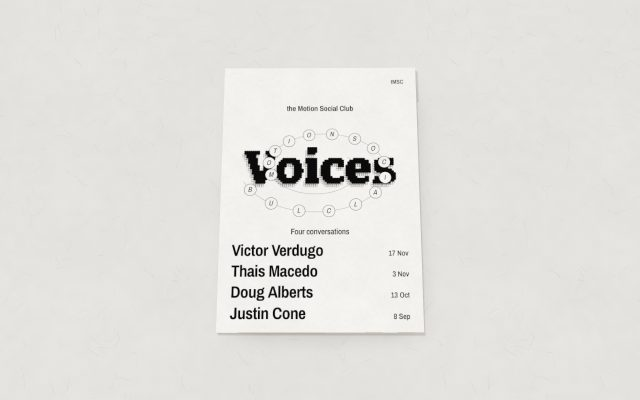
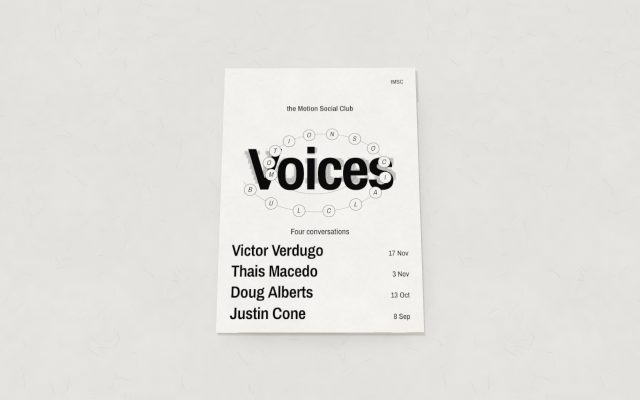
tMSC Voices: solid Archivo Narrow cover title over light dots
The cover title is now solid Archivo Narrow bold; the dotted slab-serif Voices sits behind it
in light grey as texture, with no shadow.

Claude-Session: https://claude.ai/code/session_01TARX4ZTpTNPwo2gLfwacvw

Changed region(s): [[0.375, 0.36, 0.625, 0.48]]

diff --git a/playground/app/prototypes/tmsc-voices-magazine/layout-cover-orbit.ts b/playground/app/prototypes/tmsc-voices-magazine/layout-cover-orbit.ts
@@ -1,13 +1,14 @@
-import { font, right, type Ctx } from "./canvas-type";
+import { fit, font, right, type Ctx } from "./canvas-type";
 import { displayDate, INTERVIEWS } from "./content";
 import { PAGE_PX } from "./data";
 import { dotType } from "./dot-type";
 import type { CoverSetup } from "./setup";
 
 /**
- * The typographic cover: "the Motion Social Club" as a pre-title, "Voices" built from dots in
- * a heavy slab serif, an orbit line spiralling around it with the club's letters in rings,
- * then the four guests and their dates. Same copy as the plain cover.
+ * The typographic cover: "the Motion Social Club" as a pre-title, "Voices" in solid Archivo
+ * Narrow bold over a dotted slab-serif "Voices" behind it, an orbit line spiralling around
+ * with the club's letters in rings, then the four guests and their dates. Same copy as the
+ * plain cover.
  */
 
 export const SLAB_FAMILY = "tMSC Voices Slab";
@@ -58,7 +59,14 @@ export function drawOrbitCover(ctx: Ctx, cover: CoverSetup) {
   ctx.fillText("the Motion Social Club", cx, cy - ry - 90);
   ctx.textAlign = "left";
   const size = 360;
-  dotType(ctx, "Voices", `800 ${size}px "${SLAB_FAMILY}"`, cx, cy + size * 0.33, { step: 14, ink });
+  // the dots sit behind, light, as texture; the title itself is solid Archivo Narrow
+  dotType(ctx, "Voices", `800 ${size}px "${SLAB_FAMILY}"`, cx, cy + size * 0.33, { step: 14, ink, alpha: 0.16 });
+  const title = fit(ctx, "Voices", { weight: 700, maxWidth: 1060, maxHeight: 600, leading: 1, max: 560, min: 200, tracking: -0.045 });
+  font(ctx, 700, title.size, -0.045);
+  ctx.fillStyle = ink;
+  ctx.textAlign = "center";
+  ctx.fillText("Voices", cx, cy + title.size * 0.36);
+  ctx.textAlign = "left";
 
   // the club's letters in rings along the outer turns
   const n = ORBIT_LETTERS.length;

diff --git a/playground/app/prototypes/tmsc-voices-magazine/dot-type.ts b/playground/app/prototypes/tmsc-voices-magazine/dot-type.ts
@@ -2,11 +2,10 @@ import type { Ctx } from "./canvas-type";
 
 /**
  * Type built from dots: the word is rasterised to a mask and a grid of overlapping filled
- * circles covers the inside. The same dots, drawn as thin outlines and dropped a little down
- * and to the left, sit behind it like a printed shadow.
+ * circles covers the inside. Flat: no shadow, no outline.
  * Deterministic. Returns the word's box on the page.
  */
-export function dotType(ctx: Ctx, text: string, fontCss: string, cx: number, baseline: number, o: { step: number; ink: string }) {
+export function dotType(ctx: Ctx, text: string, fontCss: string, cx: number, baseline: number, o: { step: number; ink: string; alpha?: number }) {
   const W = ctx.canvas.width;
   const H = ctx.canvas.height;
   const m = document.createElement("canvas");
@@ -35,17 +34,9 @@ export function dotType(ctx: Ctx, text: string, fontCss: string, cx: number, bas
   const y1 = baseline + box.actualBoundingBoxDescent + s * 2;
   const fills: [number, number][] = [];
   for (let y = y0; y <= y1; y += s) for (let x = x0; x <= x1; x += s) if (inside(x, y)) fills.push([x, y]);
-  const rings = fills.map(([x, y]) => [x - s * 0.8, y + s * 1.7] as [number, number]);
   ctx.save();
-  ctx.lineWidth = Math.max(1, s * 0.09);
-  ctx.strokeStyle = o.ink;
-  // the halo: outlines only, so neighbouring rings cross like in a print proof
-  for (const [x, y] of rings) {
-    ctx.beginPath();
-    ctx.arc(x, y, r, 0, Math.PI * 2);
-    ctx.stroke();
-  }
   ctx.fillStyle = o.ink;
+  ctx.globalAlpha = o.alpha ?? 1;
   for (const [x, y] of fills) {
     ctx.beginPath();
     ctx.arc(x, y, r, 0, Math.PI * 2);

diff --git a/playground/app/prototypes/tmsc-voices-magazine/ideas.md b/playground/app/prototypes/tmsc-voices-magazine/ideas.md
@@ -24,7 +24,7 @@ Formato: idea, tamaño (S/M/L), estado. Estados: pendiente, en curso, hecha, des
 - **Fondo del canvas** — S — hecha. Color a elegir, textura de papel y grilla opcional (apagada por defecto).
 - **Línea de tiempo con easing y duraciones** — L — hecha. Valores generales en el panel; en la línea de tiempo, preview, scrub, bloques a escala con su curva, estirar arrastrando, duración y easing por giro, persistido.
 - **Texturas intercambiables** — M — hecha. Siete papeles (incluida una textura subida) para páginas y fondo por separado, con intensidad.
-- **Tapa con título de puntos y órbita** — M — hecha. Estética de las referencias de Human + Motion: título en puntos con sombra de anillos, espiral con letras en círculos; mismo texto que antes. La tapa anterior queda como "Plain".
+- **Tapa con título de puntos y órbita** — M — hecha. Estética de las referencias de Human + Motion: título sólido en Archivo Narrow con un "Voices" en puntos claros detrás, espiral con letras en círculos; mismo texto que antes. La tapa anterior queda como "Plain".
 - **Papel como material 3D** — M — hecha. Acabado (mate a brillante), relieve con bump desde la textura, peso (curvatura y grosor) y ondulación.
 - **Curva bézier editable a mano** (arrastrar los handles) — M — después. Hoy son presets.
 - **Record más corto con Q&A** (por ejemplo, saltear los spreads Q&A en el video) — S — después. Hoy el video con Q&A dura unos 29 s.

diff --git a/playground/app/prototypes/tmsc-voices-magazine/README.md b/playground/app/prototypes/tmsc-voices-magazine/README.md
@@ -97,7 +97,7 @@ Además de la textura impresa, el papel tiene su tratamiento como material:
 
 En el panel, **Cover** elige el estilo:
 
-- **Type** (el default): blanco con tipo negro. "the Motion Social Club" va como pretítulo y "Voices" armado con puntos en una slab serif (Bitter), con una sombra de círculos huecos y una órbita en espiral con las letras del club. Debajo van "Four conversations" y los cuatro invitados con su fecha, el mismo texto de siempre.
+- **Type** (el default): blanco con tipo negro. "the Motion Social Club" va como pretítulo y "Voices" en Archivo Narrow bold negro, con un "Voices" en puntos gris claro por detrás (slab serif Bitter) y una órbita en espiral con las letras del club. Debajo van "Four conversations" y los cuatro invitados con su fecha, el mismo texto de siempre.
 - **Plain:** la tapa tipográfica anterior, sin puntos ni órbita.
 - **Full image:** la imagen a sangre, con el tipo encima.
 - **Image on color:** la imagen dentro de un fondo del color que elijas en **Cover color** (que también colorea la tapa Type).

diff --git a/playground/app/prototypes/tmsc-voices-magazine/HOW_IT_WORKS.md b/playground/app/prototypes/tmsc-voices-magazine/HOW_IT_WORKS.md
@@ -47,9 +47,8 @@ the conversation set in columns, as in a printed magazine.
 ## Cover
 
 **Type** (default) is the dotted orbit cover (`layout-cover-orbit.ts`): "the Motion Social
-Club" as a pre-title, "Voices" in Bitter 800 (OFL, `public/prototype-assets/<slug>/fonts/`)
-built from overlapping dots with an outlined, offset copy behind it as a printed shadow
-(`dot-type.ts`), a thin spiral orbit with the letters of MOTION SOCIAL CLUB in rings, then
+Club" as a pre-title, "Voices" in solid Archivo Narrow bold, over a light dotted "Voices" in
+Bitter 800 (OFL, `public/prototype-assets/<slug>/fonts/`, built from dots by `dot-type.ts`), a thin spiral orbit with the letters of MOTION SOCIAL CLUB in rings, then
 "tMSC", "Four conversations" and the four guests with their dates: the same copy as before.
 **Plain** keeps the first typographic cover; **Full image** and **Image on color** as before.
 
